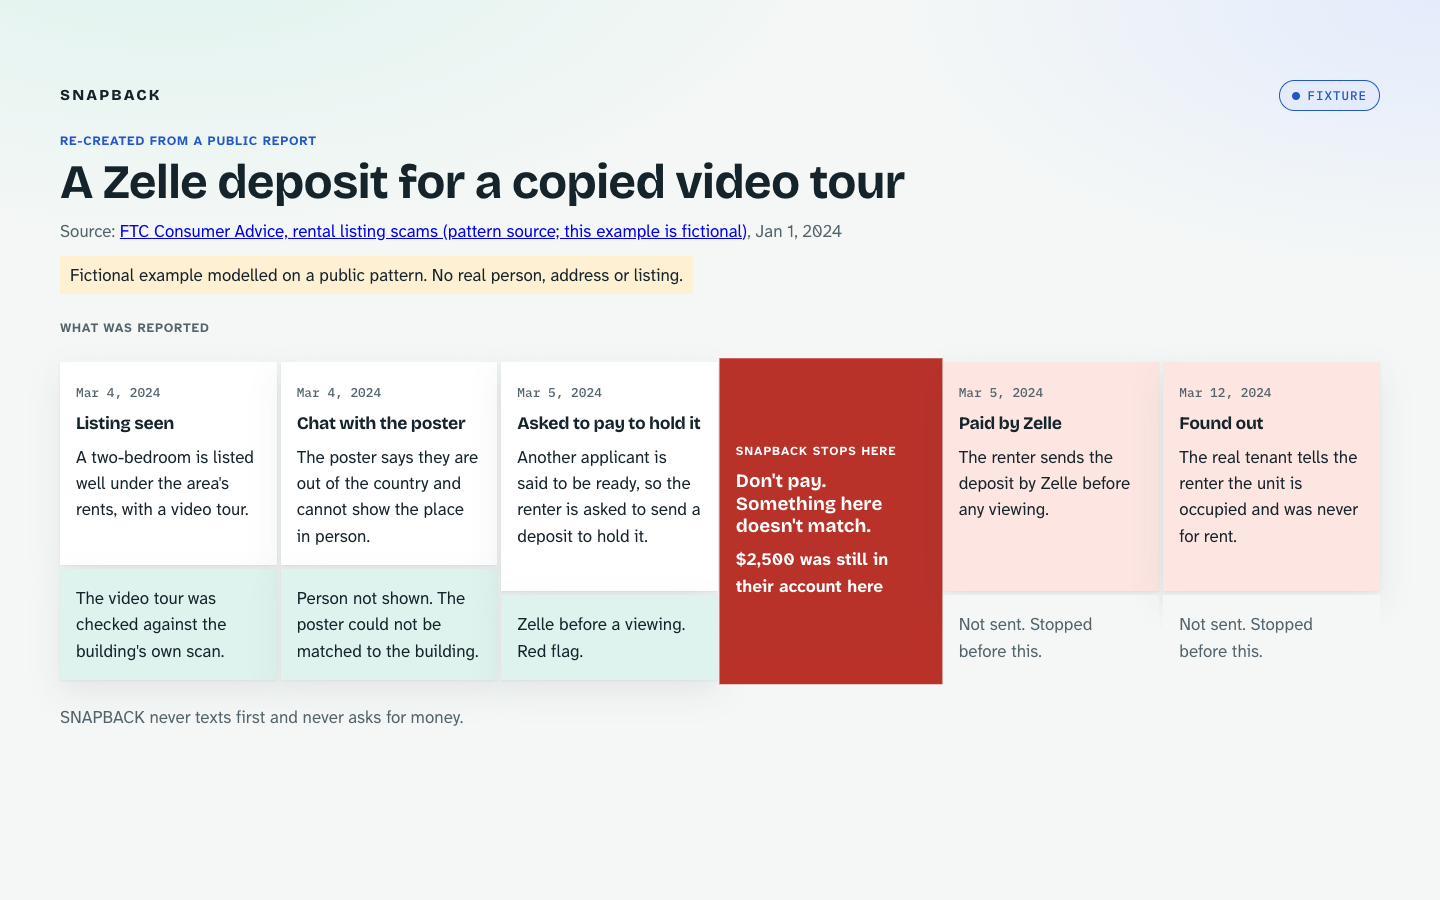
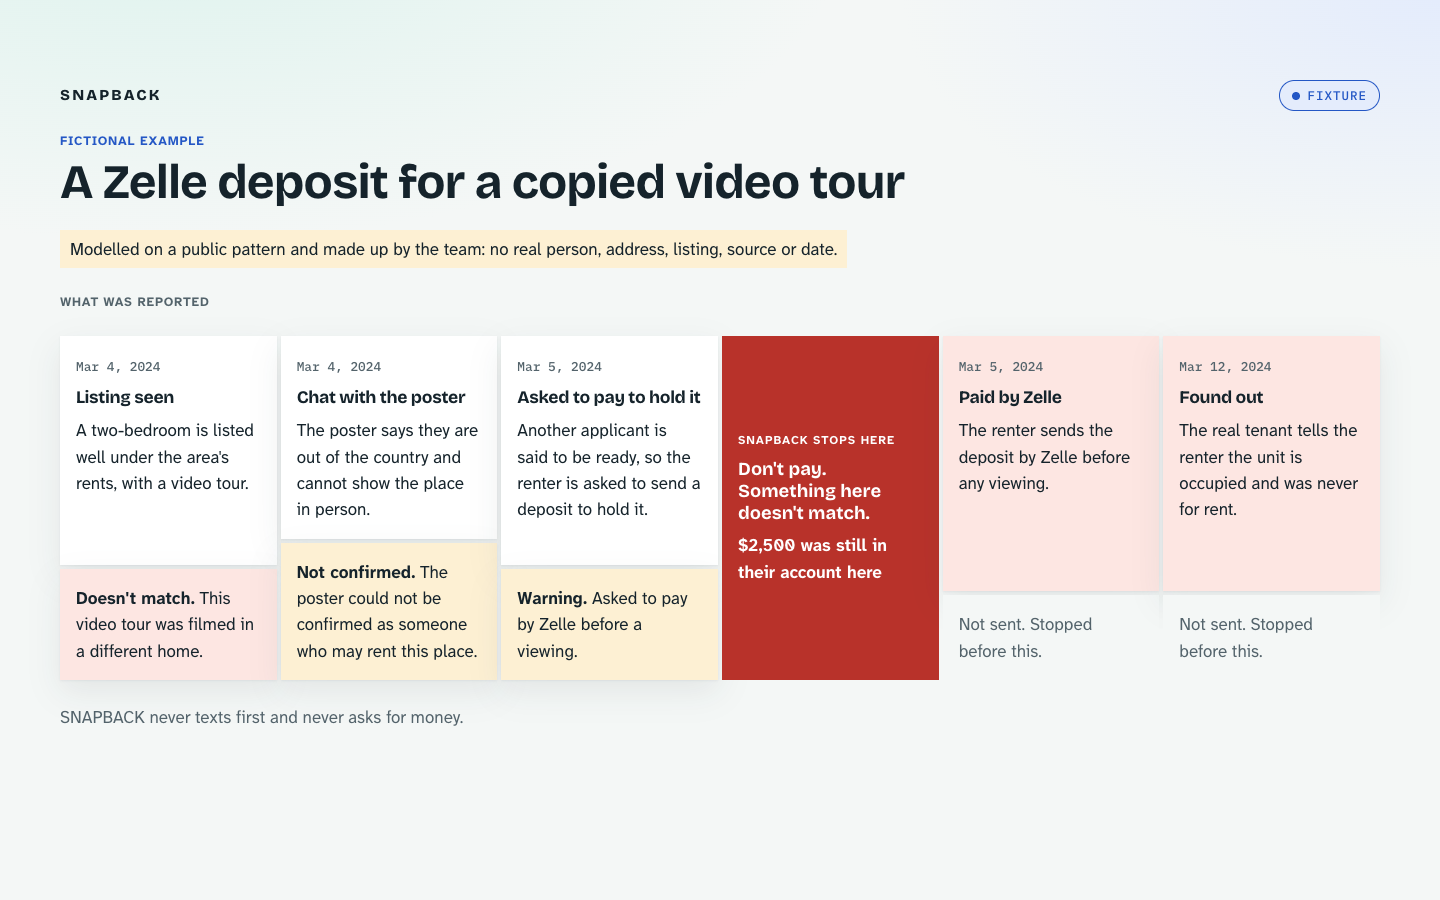
task T11 fix: fictional label, no invented source, locked finding words, stop at first payment step

diff --git a/apps/web/src/replay/ReplayPage.tsx b/apps/web/src/replay/ReplayPage.tsx
@@ -1,7 +1,7 @@
 import { Fragment } from "react";
 
 import { SourceChip } from "../components/SourceChip";
-import { getReplay, REPLAY_VERDICT_WORDS } from "./index";
+import { FINDING_WORDS, getReplay, REPLAY_VERDICT_WORDS } from "./index";
 import type { Replay } from "./types";
 import "./replay.css";
 
@@ -31,10 +31,26 @@ function NotFound() {
   );
 }
 
+function FindingLine({ finding }: { finding?: Replay["snapback"]["findings"][number] }) {
+  if (!finding) return <p>Nothing flagged yet.</p>;
+  return (
+    <p className={`finding finding-${finding.status}`} data-status={finding.status}>
+      <strong>{FINDING_WORDS[finding.status]}.</strong> {finding.text}
+    </p>
+  );
+}
+
 export function ReplayView({ replay }: { replay: Replay }) {
   const { steps, snapback } = replay;
-  const stopIndex = steps.findIndex((s) => s.id === snapback.stop_before);
-  const findings = new Map(snapback.findings.map((f) => [f.step_id, f.text]));
+  // The stop is the first payment step; stop_before, when given, must agree.
+  const stopIndex = steps.findIndex((s) => s.kind === "payment");
+  const stopProblem =
+    stopIndex < 0
+      ? "This replay has no payment step, so the stop cannot be placed."
+      : snapback.stop_before && snapback.stop_before !== steps[stopIndex]?.id
+        ? "This replay's stop_before does not name its first payment step."
+        : null;
+  const findings = new Map(snapback.findings.map((f) => [f.step_id, f]));
 
   return (
     <article className="replay-page">
@@ -43,66 +59,79 @@ export function ReplayView({ replay }: { replay: Replay }) {
           <span className="wordmark">SNAPBACK</span>
           <SourceChip source="fixture" />
         </div>
-        <p className="replay-label">Re-created from a public report</p>
-        <h1>{replay.title}</h1>
-        <p className="replay-source">
-          Source:{" "}
-          <a href={replay.source.url} rel="noopener noreferrer" target="_blank">
-            {replay.source.name}
-          </a>
-          {", "}
-          <span data-testid="source-date">{reportedDate(replay.source.published_on)}</span>
+        <p className="replay-label">
+          {replay.fictional ? "Fictional example" : "Re-created from a public report"}
         </p>
+        <h1>{replay.title}</h1>
+        {replay.source && !replay.fictional ? (
+          <p className="replay-source">
+            Source:{" "}
+            <a href={replay.source.url} rel="noopener noreferrer" target="_blank">
+              {replay.source.name}
+            </a>
+            {", "}
+            <span data-testid="source-date">{reportedDate(replay.source.published_on)}</span>
+          </p>
+        ) : null}
         {replay.fictional ? (
           <p className="replay-note">
-            Fictional example modelled on a public pattern. No real person, address or listing.
+            Modelled on a public pattern and made up by the team: no real person, address, listing,
+            source or date.
           </p>
         ) : null}
       </header>
 
-      <div className="replay-legend" aria-hidden="true">
-        <span>What was reported</span>
-        <span>What SNAPBACK would have shown</span>
-      </div>
+      {stopProblem ? (
+        <p className="replay-error" role="alert">
+          {stopProblem}
+        </p>
+      ) : (
+        <>
+          <div className="replay-legend" aria-hidden="true">
+            <span>What was reported</span>
+            <span>What SNAPBACK would have shown</span>
+          </div>
 
-      <ol className="timeline" data-testid="timeline">
-        {steps.map((step, i) => (
-          <Fragment key={step.id}>
-            {i === stopIndex ? (
-              <li
-                key="stop"
-                className={`tl-stop tl-stop-${snapback.verdict}`}
-                data-step-id="stop"
-                data-testid="stop-marker"
-              >
-                <span className="stop-tag">SNAPBACK stops here</span>
-                <strong className="stop-words">{REPLAY_VERDICT_WORDS[snapback.verdict]}</strong>
-                <span className="stop-amount" data-testid="amount-line">
-                  {dollars(replay.amount_usd)} was still in their account here
-                </span>
-              </li>
-            ) : null}
-            <li
-              className={`tl-step${stopIndex >= 0 && i >= stopIndex ? " tl-after" : ""}`}
-              data-step-id={step.id}
-              data-testid={`step-${step.id}`}
-            >
-              <div className="tl-real">
-                <time dateTime={step.reported_on}>{reportedDate(step.reported_on)}</time>
-                <h2>{step.label}</h2>
-                <p>{step.detail}</p>
-              </div>
-              <div className="tl-snap">
-                {i >= stopIndex && stopIndex >= 0 ? (
-                  <p className="muted">Not sent. Stopped before this.</p>
-                ) : (
-                  <p>{findings.get(step.id) ?? "Nothing flagged yet."}</p>
-                )}
-              </div>
-            </li>
-          </Fragment>
-        ))}
-      </ol>
+          <ol className="timeline" data-testid="timeline">
+            {steps.map((step, i) => (
+              <Fragment key={step.id}>
+                {i === stopIndex ? (
+                  <li
+                    key="stop"
+                    className={`tl-stop tl-stop-${snapback.verdict}`}
+                    data-step-id="stop"
+                    data-testid="stop-marker"
+                  >
+                    <span className="stop-tag">SNAPBACK stops here</span>
+                    <strong className="stop-words">{REPLAY_VERDICT_WORDS[snapback.verdict]}</strong>
+                    <span className="stop-amount" data-testid="amount-line">
+                      {dollars(replay.amount_usd)} was still in their account here
+                    </span>
+                  </li>
+                ) : null}
+                <li
+                  className={`tl-step${stopIndex >= 0 && i >= stopIndex ? " tl-after" : ""}`}
+                  data-step-id={step.id}
+                  data-testid={`step-${step.id}`}
+                >
+                  <div className="tl-real">
+                    <time dateTime={step.reported_on}>{reportedDate(step.reported_on)}</time>
+                    <h2>{step.label}</h2>
+                    <p>{step.detail}</p>
+                  </div>
+                  <div className="tl-snap">
+                    {i >= stopIndex && stopIndex >= 0 ? (
+                      <p className="muted">Not sent. Stopped before this.</p>
+                    ) : (
+                      <FindingLine finding={findings.get(step.id)} />
+                    )}
+                  </div>
+                </li>
+              </Fragment>
+            ))}
+          </ol>
+        </>
+      )}
 
       <footer className="replay-foot">
         <p>SNAPBACK never texts first and never asks for money.</p>

diff --git a/apps/web/src/replay/ReplayPage.test.tsx b/apps/web/src/replay/ReplayPage.test.tsx
@@ -55,14 +55,66 @@ describe("ReplayPage", () => {
     );
   });
 
-  it("labels the header and links the source with its date", () => {
+  it("labels a fictional replay as fictional, with no source link and no date", () => {
     render(<ReplayPage slug={SLUG} />);
-    expect(screen.getByText("Re-created from a public report")).toBeInTheDocument();
-    const link = screen.getByRole("link", { name: /FTC Consumer Advice/ });
-    expect(link).toHaveAttribute("href", "https://consumer.ftc.gov/articles/rental-listing-scams");
-    expect(screen.getByTestId("source-date")).toHaveTextContent("Jan 1, 2024");
+    expect(screen.getByText("Fictional example")).toBeInTheDocument();
+    expect(screen.queryByText("Re-created from a public report")).toBeNull();
+    expect(screen.queryByRole("link")).toBeNull();
+    expect(screen.queryByTestId("source-date")).toBeNull();
     expect(screen.getByTestId("source-chip")).toHaveTextContent("FIXTURE");
-    expect(screen.getByText(/Fictional example/)).toBeInTheDocument();
+    expect("source" in fixture).toBe(false);
+  });
+
+  it("labels a real replay as re-created from a public report, with source link and date", () => {
+    const real: Replay = {
+      ...(fixture as Replay),
+      slug: "real-case",
+      fictional: false,
+      source: {
+        name: "Example Gazette",
+        url: "https://example.org/story",
+        published_on: "2025-02-03",
+      },
+    };
+    render(<ReplayPage slug="real-case" replay={real} />);
+    expect(screen.getByText("Re-created from a public report")).toBeInTheDocument();
+    expect(screen.getByRole("link", { name: "Example Gazette" })).toHaveAttribute(
+      "href",
+      "https://example.org/story",
+    );
+    expect(screen.getByTestId("source-date")).toHaveTextContent("Feb 3, 2025");
+  });
+
+  it("uses locked row words for findings and colours them by state", () => {
+    render(<ReplayPage slug={SLUG} />);
+    const listing = within(screen.getByTestId("step-listing"));
+    expect(listing.getByText("Doesn't match.")).toBeInTheDocument();
+    expect(listing.getByText(/filmed in a different home/)).toBeInTheDocument();
+    const states = Array.from(document.querySelectorAll<HTMLElement>("[data-status]")).map(
+      (el) => el.dataset.status,
+    );
+    expect(states).toEqual(["doesnt_match", "not_confirmed", "warning"]);
+    expect(document.body.textContent).not.toMatch(/Red flag|Person not shown/);
+  });
+
+  it("stops before the first payment step even if stop_before is missing", () => {
+    const r = JSON.parse(JSON.stringify(fixture)) as Replay;
+    delete r.snapback.stop_before;
+    render(<ReplayPage slug={SLUG} replay={r} />);
+    const ids = Array.from(steps()).map((el) => el.dataset.stepId);
+    expect(ids.indexOf("stop")).toBe(ids.indexOf("payment") - 1);
+  });
+
+  it("shows a visible error when there is no payment step or stop_before disagrees", () => {
+    const base = fixture as Replay;
+    const none: Replay = { ...base, steps: base.steps.filter((s) => s.kind !== "payment") };
+    const { unmount } = render(<ReplayPage slug={SLUG} replay={none} />);
+    expect(screen.getByRole("alert")).toHaveTextContent(/no payment step/);
+    expect(screen.queryByTestId("stop-marker")).toBeNull();
+    unmount();
+    const wrong: Replay = { ...base, snapback: { ...base.snapback, stop_before: "chat" } };
+    render(<ReplayPage slug={SLUG} replay={wrong} />);
+    expect(screen.getByRole("alert")).toHaveTextContent(/stop_before/);
   });
 
   it("shows no victim name and no street address", () => {
@@ -83,7 +135,7 @@ describe("ReplayPage", () => {
 
   it("opens from the card page for its case", () => {
     render(<CardView card={cardHold as Card} variant="result" />);
-    const link = screen.getByRole("link", { name: /re-created from a public report/i });
+    const link = screen.getByRole("link", { name: "See a fictional example" });
     expect(link).toHaveAttribute("href", `/replay/${SLUG}`);
     expect(getReplay(SLUG)).toBeDefined();
   });

diff --git a/apps/web/src/replay/types.ts b/apps/web/src/replay/types.ts
@@ -5,6 +5,10 @@ export type ReplayStepKind = "listing" | "chat" | "hold_request" | "payment" | "
 
 // The two verdict states a replay may stop at. Card words come from code (REPLAY_VERDICT_WORDS),
 // never from the JSON, so the locked wording cannot drift.
+// Locked row words (decisions.md 22:40).
+export type FindingStatus =
+  "matches" | "doesnt_match" | "not_confirmed" | "warning" | "not_checked";
+
 export type ReplayVerdict = "dont_pay" | "hold";
 
 export interface ReplayStep {
@@ -27,16 +31,17 @@ export interface Replay {
   pattern: "place" | "person" | "price";
   /** True for a team-made example modelled on a public pattern, not on one named report. */
   fictional: boolean;
-  source: { name: string; url: string; published_on: string };
+  /** Required when fictional is false. A fictional replay carries no source and no date. */
+  source?: { name: string; url: string; published_on: string };
   /** Amount in dollars as reported by the source, rounded as reported. */
   amount_usd: number;
   /** Steps in the order they happened. Exactly one has kind "payment". */
   steps: ReplayStep[];
   snapback: {
     verdict: ReplayVerdict;
-    /** Id of the payment step SNAPBACK stops before. */
-    stop_before: string;
-    /** What SNAPBACK's run found at each step it saw, keyed by step id. */
-    findings: { step_id: string; text: string }[];
+    /** Optional cross-check: id of the payment step. The stop is always the first payment step. */
+    stop_before?: string;
+    /** What SNAPBACK's run found at each step it saw, in the locked row words. */
+    findings: { step_id: string; status: FindingStatus; text: string }[];
   };
 }

diff --git a/apps/web/src/replay/index.ts b/apps/web/src/replay/index.ts
@@ -1,5 +1,5 @@
 import zelleCopiedTour from "./fixtures/zelle-deposit-copied-tour.json";
-import type { Replay, ReplayVerdict } from "./types";
+import type { FindingStatus, Replay, ReplayVerdict } from "./types";
 
 // Fixtures only until D8 (#71) lands demo/replays/*.json; then this list reads those files.
 const REPLAYS: Replay[] = [zelleCopiedTour as Replay];
@@ -19,3 +19,11 @@ export const REPLAY_VERDICT_WORDS: Record<ReplayVerdict, string> = {
 };
 
 export type { Replay } from "./types";
+
+export const FINDING_WORDS: Record<FindingStatus, string> = {
+  matches: "Matches",
+  doesnt_match: "Doesn't match",
+  not_confirmed: "Not confirmed",
+  warning: "Warning",
+  not_checked: "Not checked",
+};

diff --git a/apps/web/src/pages/CardPage.tsx b/apps/web/src/pages/CardPage.tsx
@@ -162,7 +162,9 @@ export function CardView({
       {replayForCase(card.case_id) ? (
         <p className="replay-link">
           <a href={`/replay/${replayForCase(card.case_id)?.slug}`}>
-            See a case like this, re-created from a public report
+            {replayForCase(card.case_id)?.fictional
+              ? "See a fictional example"
+              : "See a case like this, re-created from a public report"}
           </a>
         </p>
       ) : null}

diff --git a/apps/web/src/replay/replay.css b/apps/web/src/replay/replay.css
@@ -198,3 +198,23 @@
     animation: none;
   }
 }
+
+.replay-error {
+  margin: 0;
+  padding: 16px;
+  background: var(--coral-soft);
+  font-weight: 700;
+}
+
+.tl-snap:has(.finding-doesnt_match) {
+  background: var(--coral-soft);
+}
+
+.tl-snap:has(.finding-warning),
+.tl-snap:has(.finding-not_confirmed) {
+  background: var(--amber-soft);
+}
+
+.tl-snap:has(.finding-not_checked) {
+  background: var(--paper);
+}
